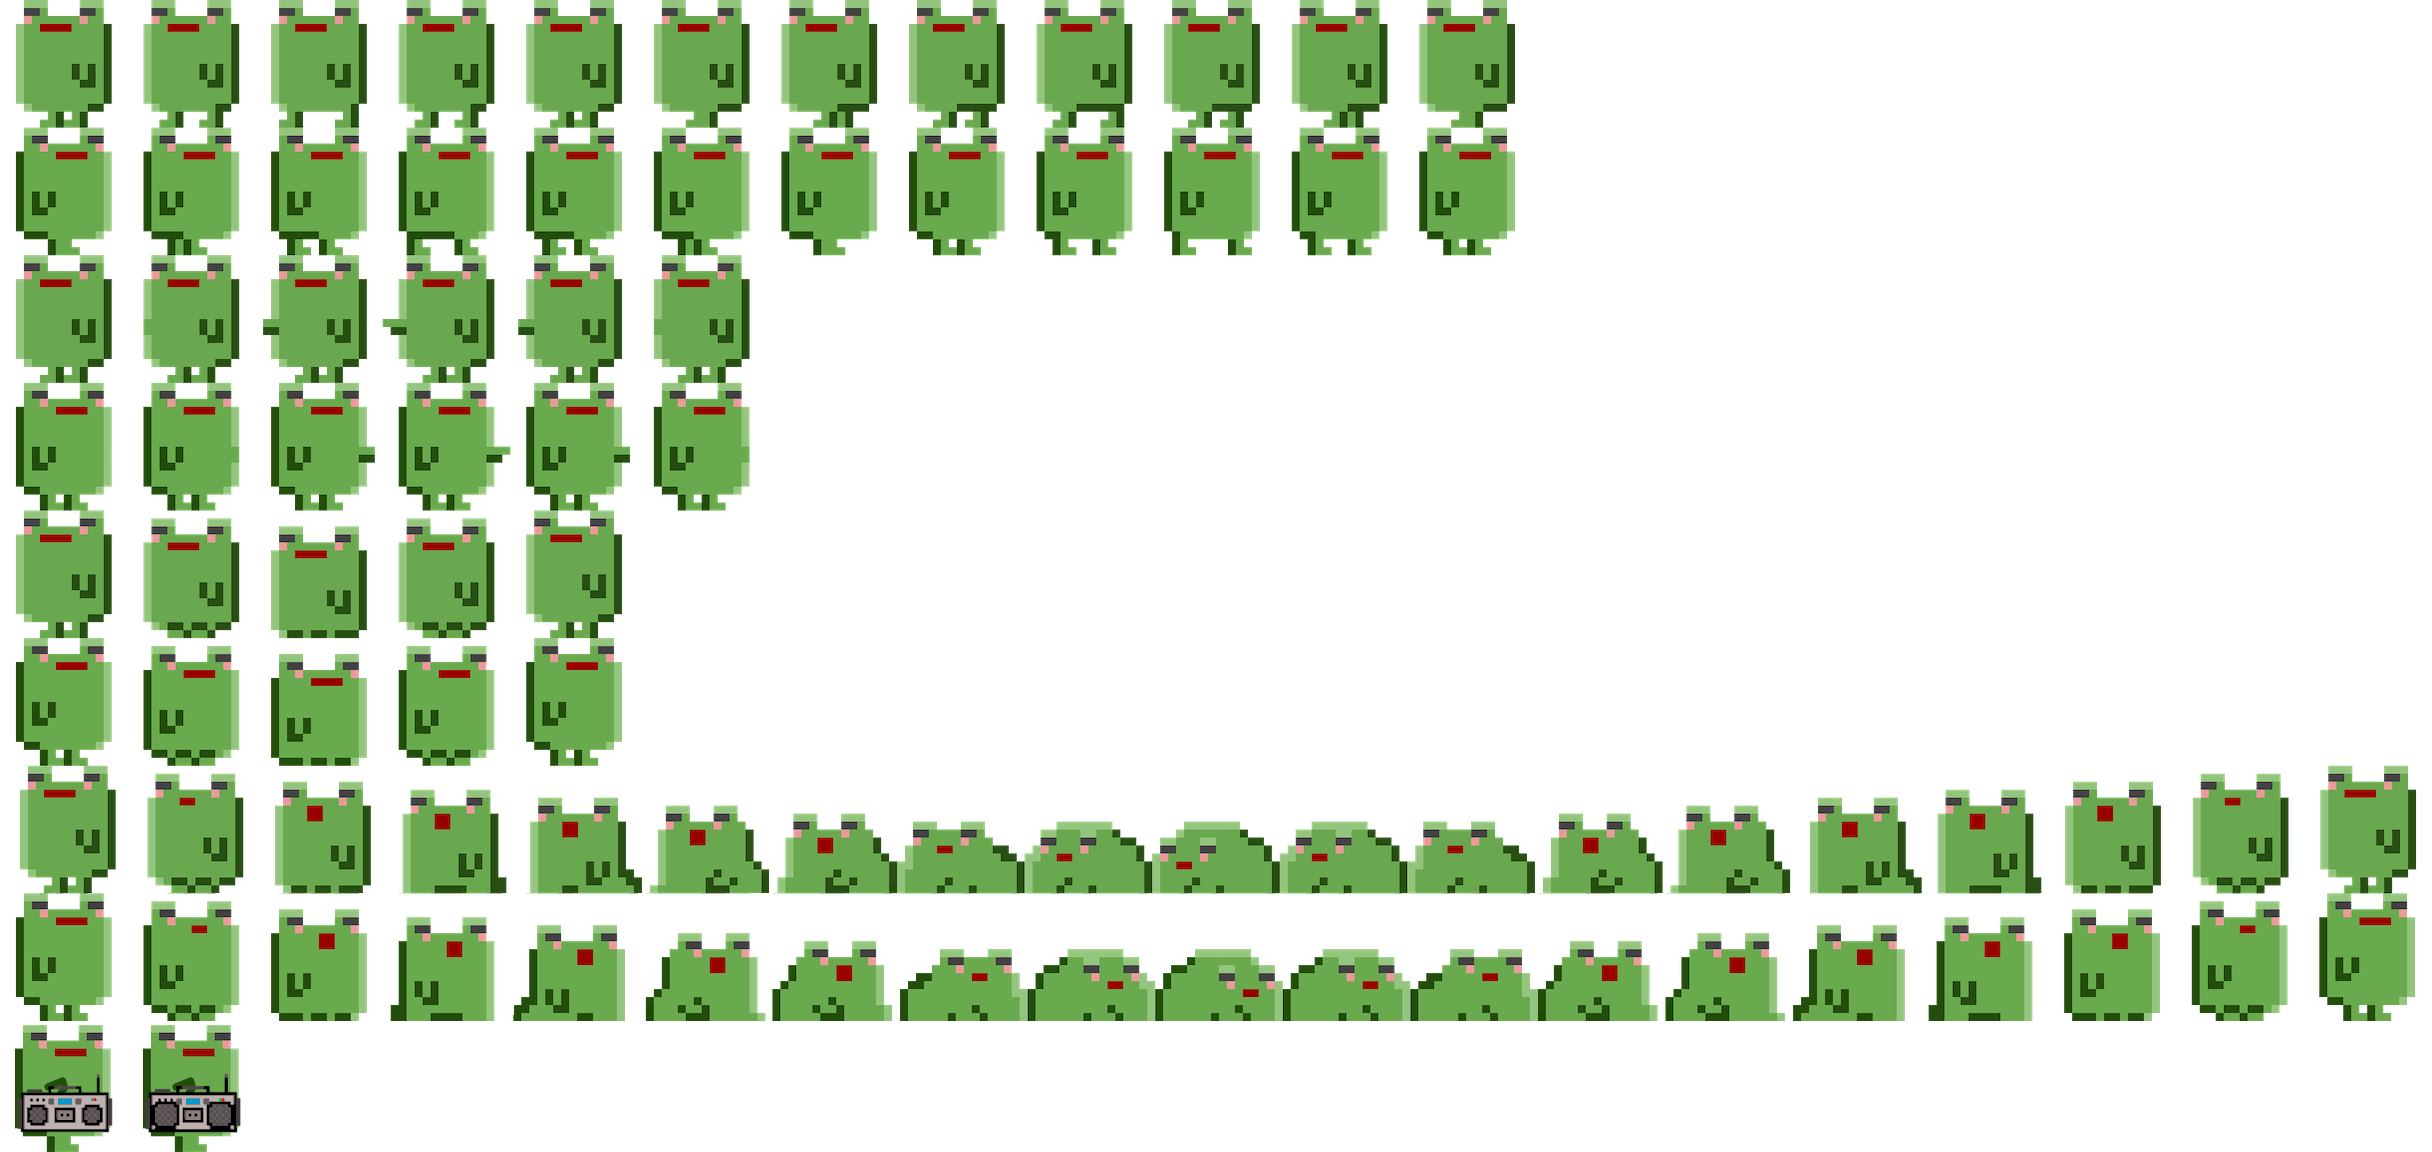
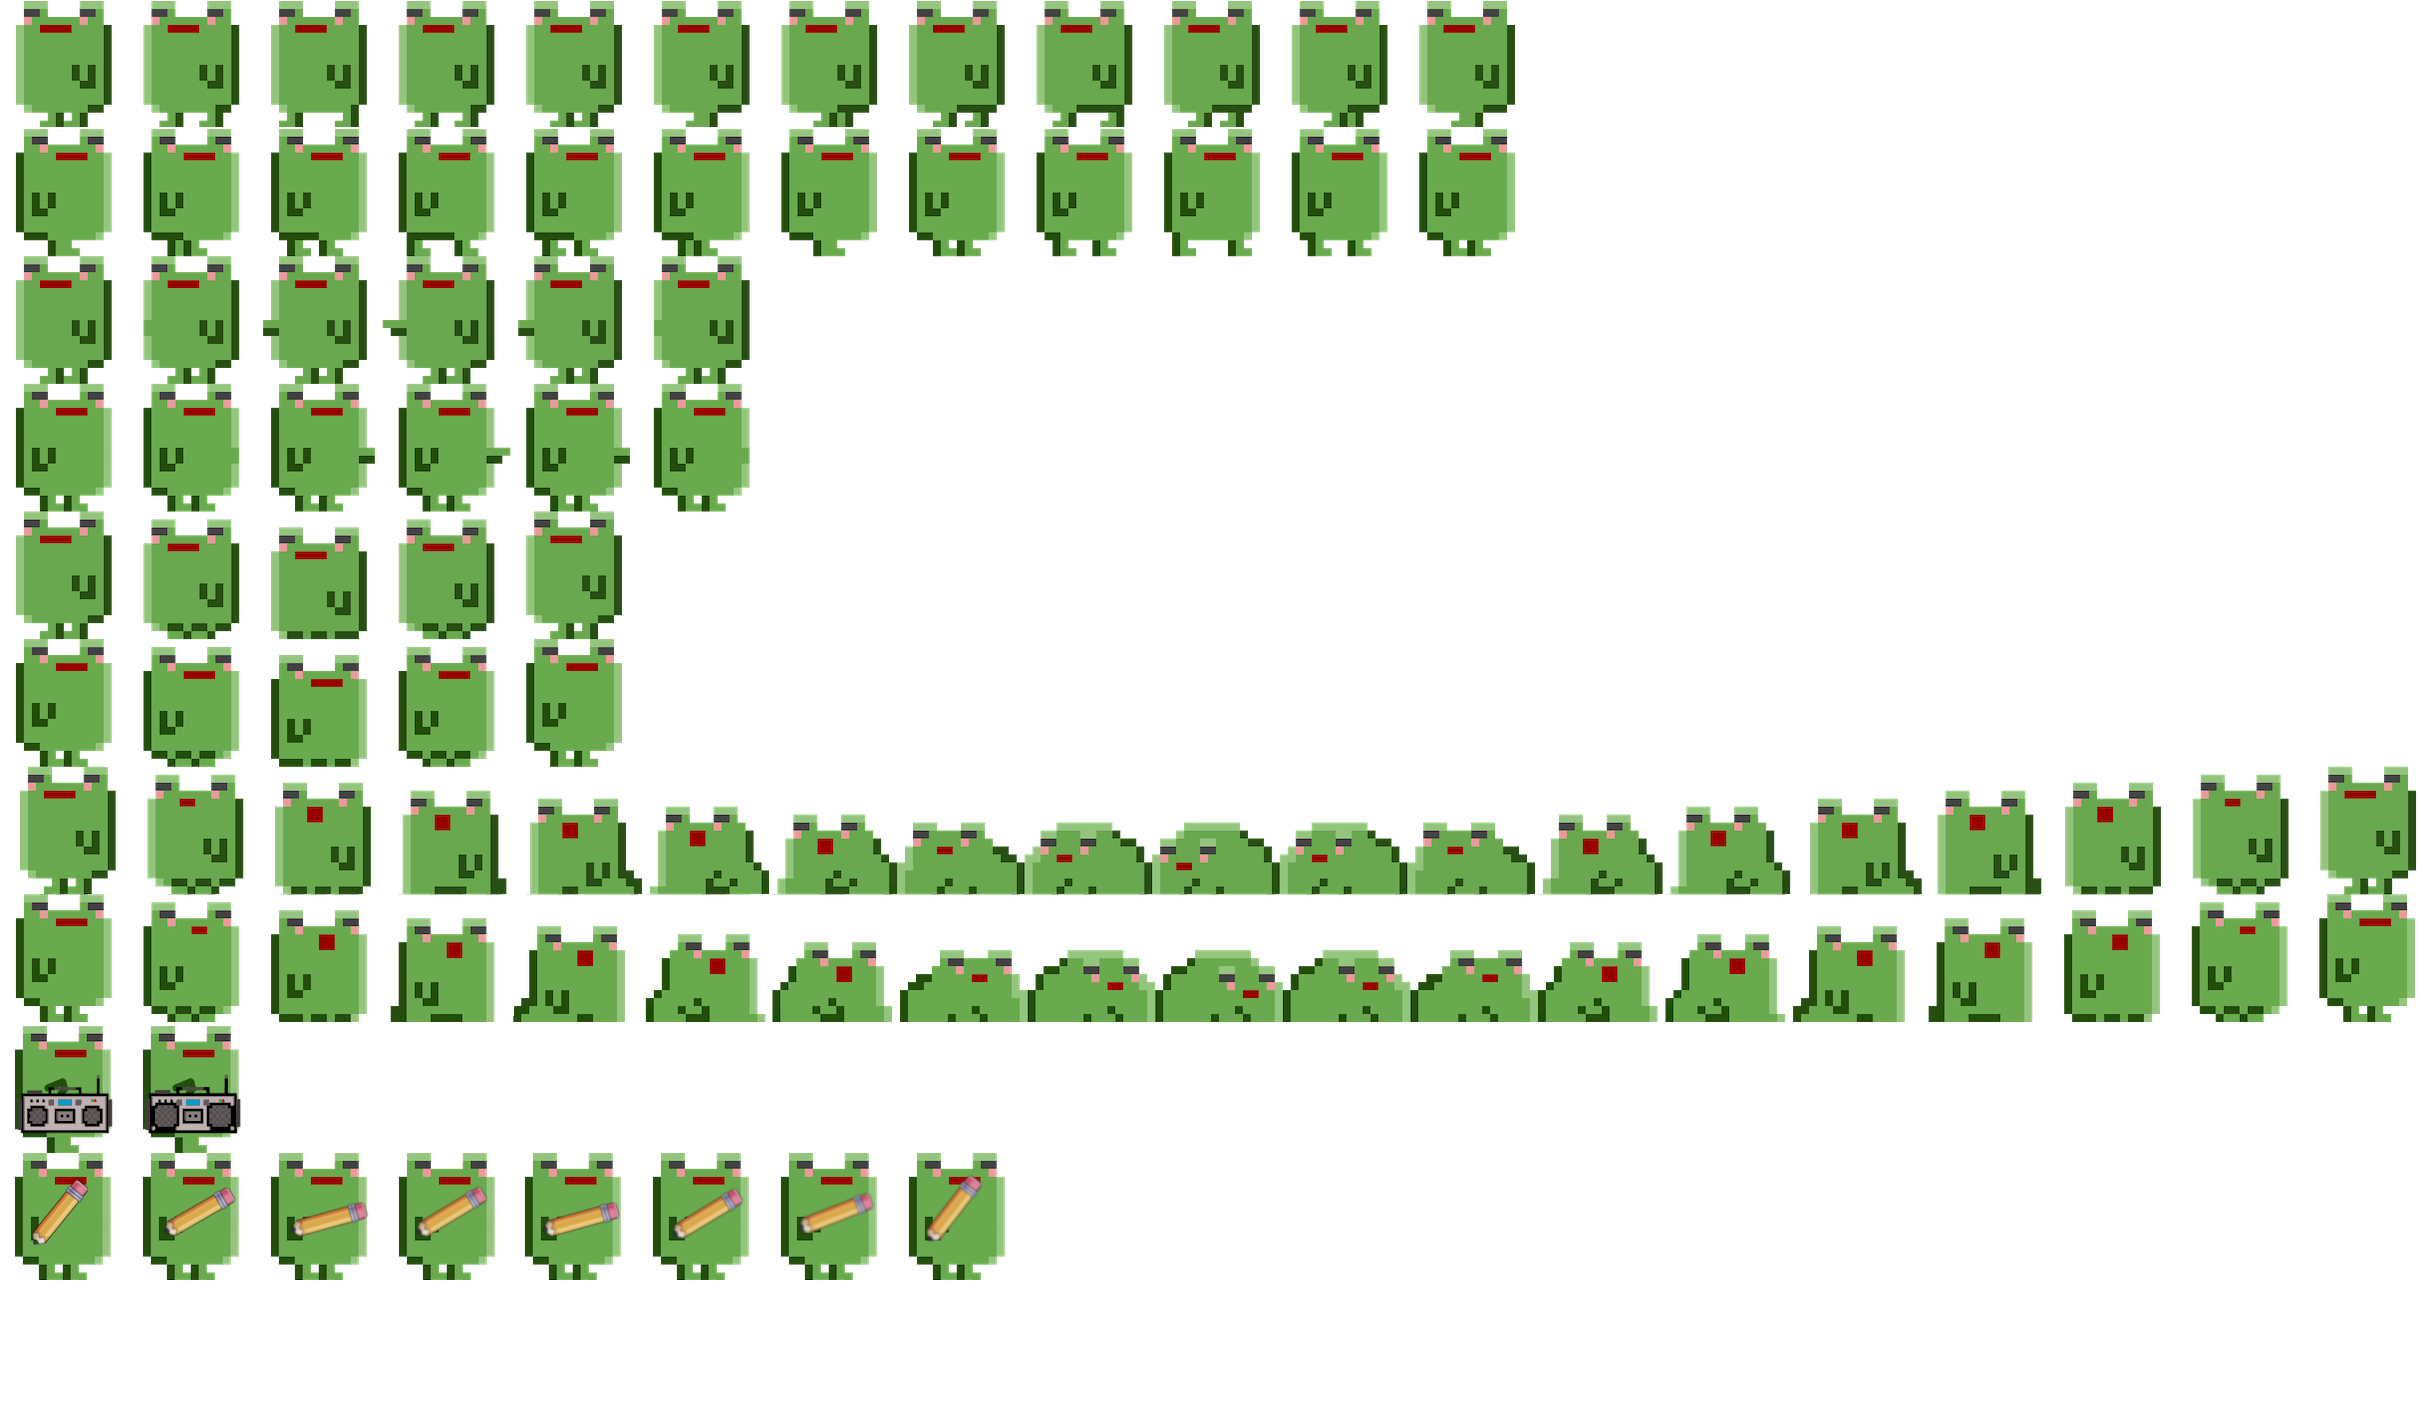
eraser

diff --git a/events.js b/events.js
@@ -91,6 +91,44 @@ chrome.runtime.onMessage.addListener(function(request, sender, sendResponse) {
         audio.play();
         setNewAnimation(characters[1].current, "dj_right",
             characters[1].current.x, characters[1].current.y, "walk_left");
+    } else if (request.request.menuItemId == "hide") {
+        var elements = document.getElementsByTagName("p");
+        var closestElements = undefined;
+        var closestY = 0;
+        var closestDistance = Infinity;
+        // Find closest link match to character
+        for (let i = elements.length - 1; i >= 0; i--) {
+            // some URLs are not being displayed and we don't want
+            if (elements[i].getBoundingClientRect().top <= 0) {continue;}
+            let elementY = elements[i].getBoundingClientRect().top + window.scrollY;
+            let y = Math.abs(characters[1].current.y - elementY);
+            if (y < closestDistance) {
+                closestDistance = y;
+                closestY = elementY;
+                closestElements = elements[i];
+            }
+        }
+        if (closestDistance == Infinity) { return; }
+
+        let firstTag = closestElements.innerHTML.indexOf("<");
+        let firstNonLinkWords = closestElements.innerHTML.substring(0, firstTag);
+        let words = firstNonLinkWords.split(" ");
+        // not the first word, too easy
+        for (let i = 1; i < words.length; i++) {
+            // nothing too short
+            if (words[i].length > 4) {
+                firstNonLinkWords = firstNonLinkWords.replace(words[i], "<span id='toBeHidden'>" + words[i] + "</span>");
+                break;
+            }
+        }
+        closestElements.innerHTML = firstNonLinkWords + closestElements.innerHTML.substr(firstTag);
+        var hiddenElement = document.getElementById("toBeHidden");
+        if (hiddenElement) {
+            let x = hiddenElement.getBoundingClientRect().left + window.scrollX;
+            let y = hiddenElement.getBoundingClientRect().top + window.scrollY;
+            let fingerOffset = characters[1].current.height * .45;
+            setNewAnimation(characters[1].current, "walk_right", x - fingerOffset, y - fingerOffset, "erase_right");
+        }
     }
 });
 

diff --git a/content.js b/content.js
@@ -117,6 +117,14 @@ function updateTarget(sprite) {
             if (audio.paused) {
                 setNewAnimation(sprite.current, "walk_left", sprite.current.idleX, sprite.current.idleY, "walk_right");
             }
+        } else if (sprite.current.animation.startsWith("erase_")) {
+            // done with erasing
+            if (lastStep) {
+                setNewAnimation(sprite.current, "walk_left", sprite.current.idleX, sprite.current.idleY, "walk_right");
+                var hiddenElement = document.getElementById("toBeHidden");
+                hiddenElement.removeAttribute("id");
+                hiddenElement.setAttribute("style", "visibility: hidden;");
+            }
         }
     }
 }

diff --git a/animations.js b/animations.js
@@ -104,6 +104,12 @@ const characters = [
                 "steps" : [4, 4],
                 "flip" : "dj_right",
                 "face" : 1
+            },
+            "erase_right" : {
+                "row" : 9,
+                "steps" : [2, 2, 2, 2, 2, 2, 2, 2],
+                "flip" : "erase_right",
+                "face" : 1
             }
         },
     }

diff --git a/background.js b/background.js
@@ -17,6 +17,12 @@ chrome.runtime.onInstalled.addListener(async () => {
         type: 'normal',
         contexts: ['all'],
     });
+    chrome.contextMenus.create({
+        id: "hide",
+        title: "削除してください",
+        type: 'normal',
+        contexts: ['all'],
+    });
 });
 
 // Open a new search tab when the user clicks a context menu
